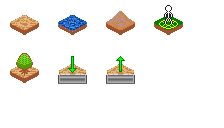
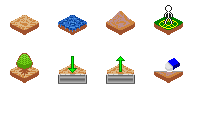
update tile searching

Changed region(s): [[0.6875, 0.4375, 0.8438, 0.6562]]

diff --git a/src/main.py b/src/main.py
@@ -156,11 +156,15 @@ class GameScene(Scene):
         self.load_btn = ButtonSprite(
             "Load", 16 + btn_size[0] + 16,
             SCRN_HEIGHT - 139 + 16 + btn_size[1] + 16)
+        self.destroy_tile_btn = ButtonSprite(
+            "Eraser", 16 + btn_size[0]*2 + 16*2,
+            SCRN_HEIGHT - 139 + 16 + btn_size[1] + 16)
         self.btn_group = pygame.sprite.RenderUpdates()
         self.btn_group.add(self.water_btn, self.dirt_btn,
                            self.mount_btn, self.tree_btn,
                            self.human_btn,
-                           self.save_btn, self.load_btn)
+                           self.save_btn, self.load_btn,
+                           self.destroy_tile_btn)
         self.mob_group = pygame.sprite.Group()
         self.mouse_pos_history = []
 
@@ -220,6 +224,10 @@ class GameScene(Scene):
                                 3, "Tree", event.pos)
                         if btn_sprite.id == "Human":
                             self.spawn_human_with_mouse(event.pos)
+                        if btn_sprite.id == "Eraser":
+                            self.rewrite_tile_with_mouse(
+                                3, None, event.pos
+                            )
         # scroll map
         self.scroll_x += self.scroll_vx
         self.scroll_y += self.scroll_vy
@@ -259,6 +267,7 @@ class GameScene(Scene):
         self.tree_btn.set_image_with_icon(2, 1)
         self.save_btn.set_image_with_icon(2, 2)
         self.load_btn.set_image_with_icon(2, 3)
+        self.destroy_tile_btn.set_image_with_icon(2, 4)
         self.btn_group.draw(self.sm.screen)
         self.mob_group.draw(self.map_surface)
         self.sm.screen.blit(self.map_surface,
@@ -452,7 +461,9 @@ class HumanSprite(pygame.sprite.Sprite):
         self.x += self.dx * 2
         self.y += self.dy * 2
         self.update_img_pos()
-        self.search_tile("Tree", 3)
+        search_result = self.search_tile("Tree", 3)
+        if search_result:
+            print("can find")
         # self.can_see_in_sightrange((0, 0))
 
     def random_direction_y(self):
@@ -483,19 +494,19 @@ class HumanSprite(pygame.sprite.Sprite):
         row = self.y // self.terrain.tilesize
         return col, row
 
-    def search_tile(self, tile, layer):
+    def search_tile(self, tile, layer) -> bool:
         tilemap = self.terrain.map[layer]
         tile_id = self.terrain.tile_id_assign[tile]
         tilesize = self.terrain.tilesize
-        # max_sightrange_of_tile = self.max_sightrange // self.terrain.tilesize
-        # min_sightrange_of_tile = self.min_sightrange // self.terrain.tilesize
+        search_result = False
         for y in range(len(tilemap)):
             for x in range(len(tilemap[y])):
                 if tilemap[y][x] == tile_id:
                     search_result = self.can_see_in_sightrange(
-                        (x*tilesize, y*tilesize))
-                    print(search_result)
-                    # homepos_of_search = self.pos_as_tilemap
+                        (x*(tilesize*0.5), y*(tilesize*0.5)))
+                    if search_result:
+                        break
+        return search_result
 
     def set_target_pos(self, pos):
         self.target_pos = pos
